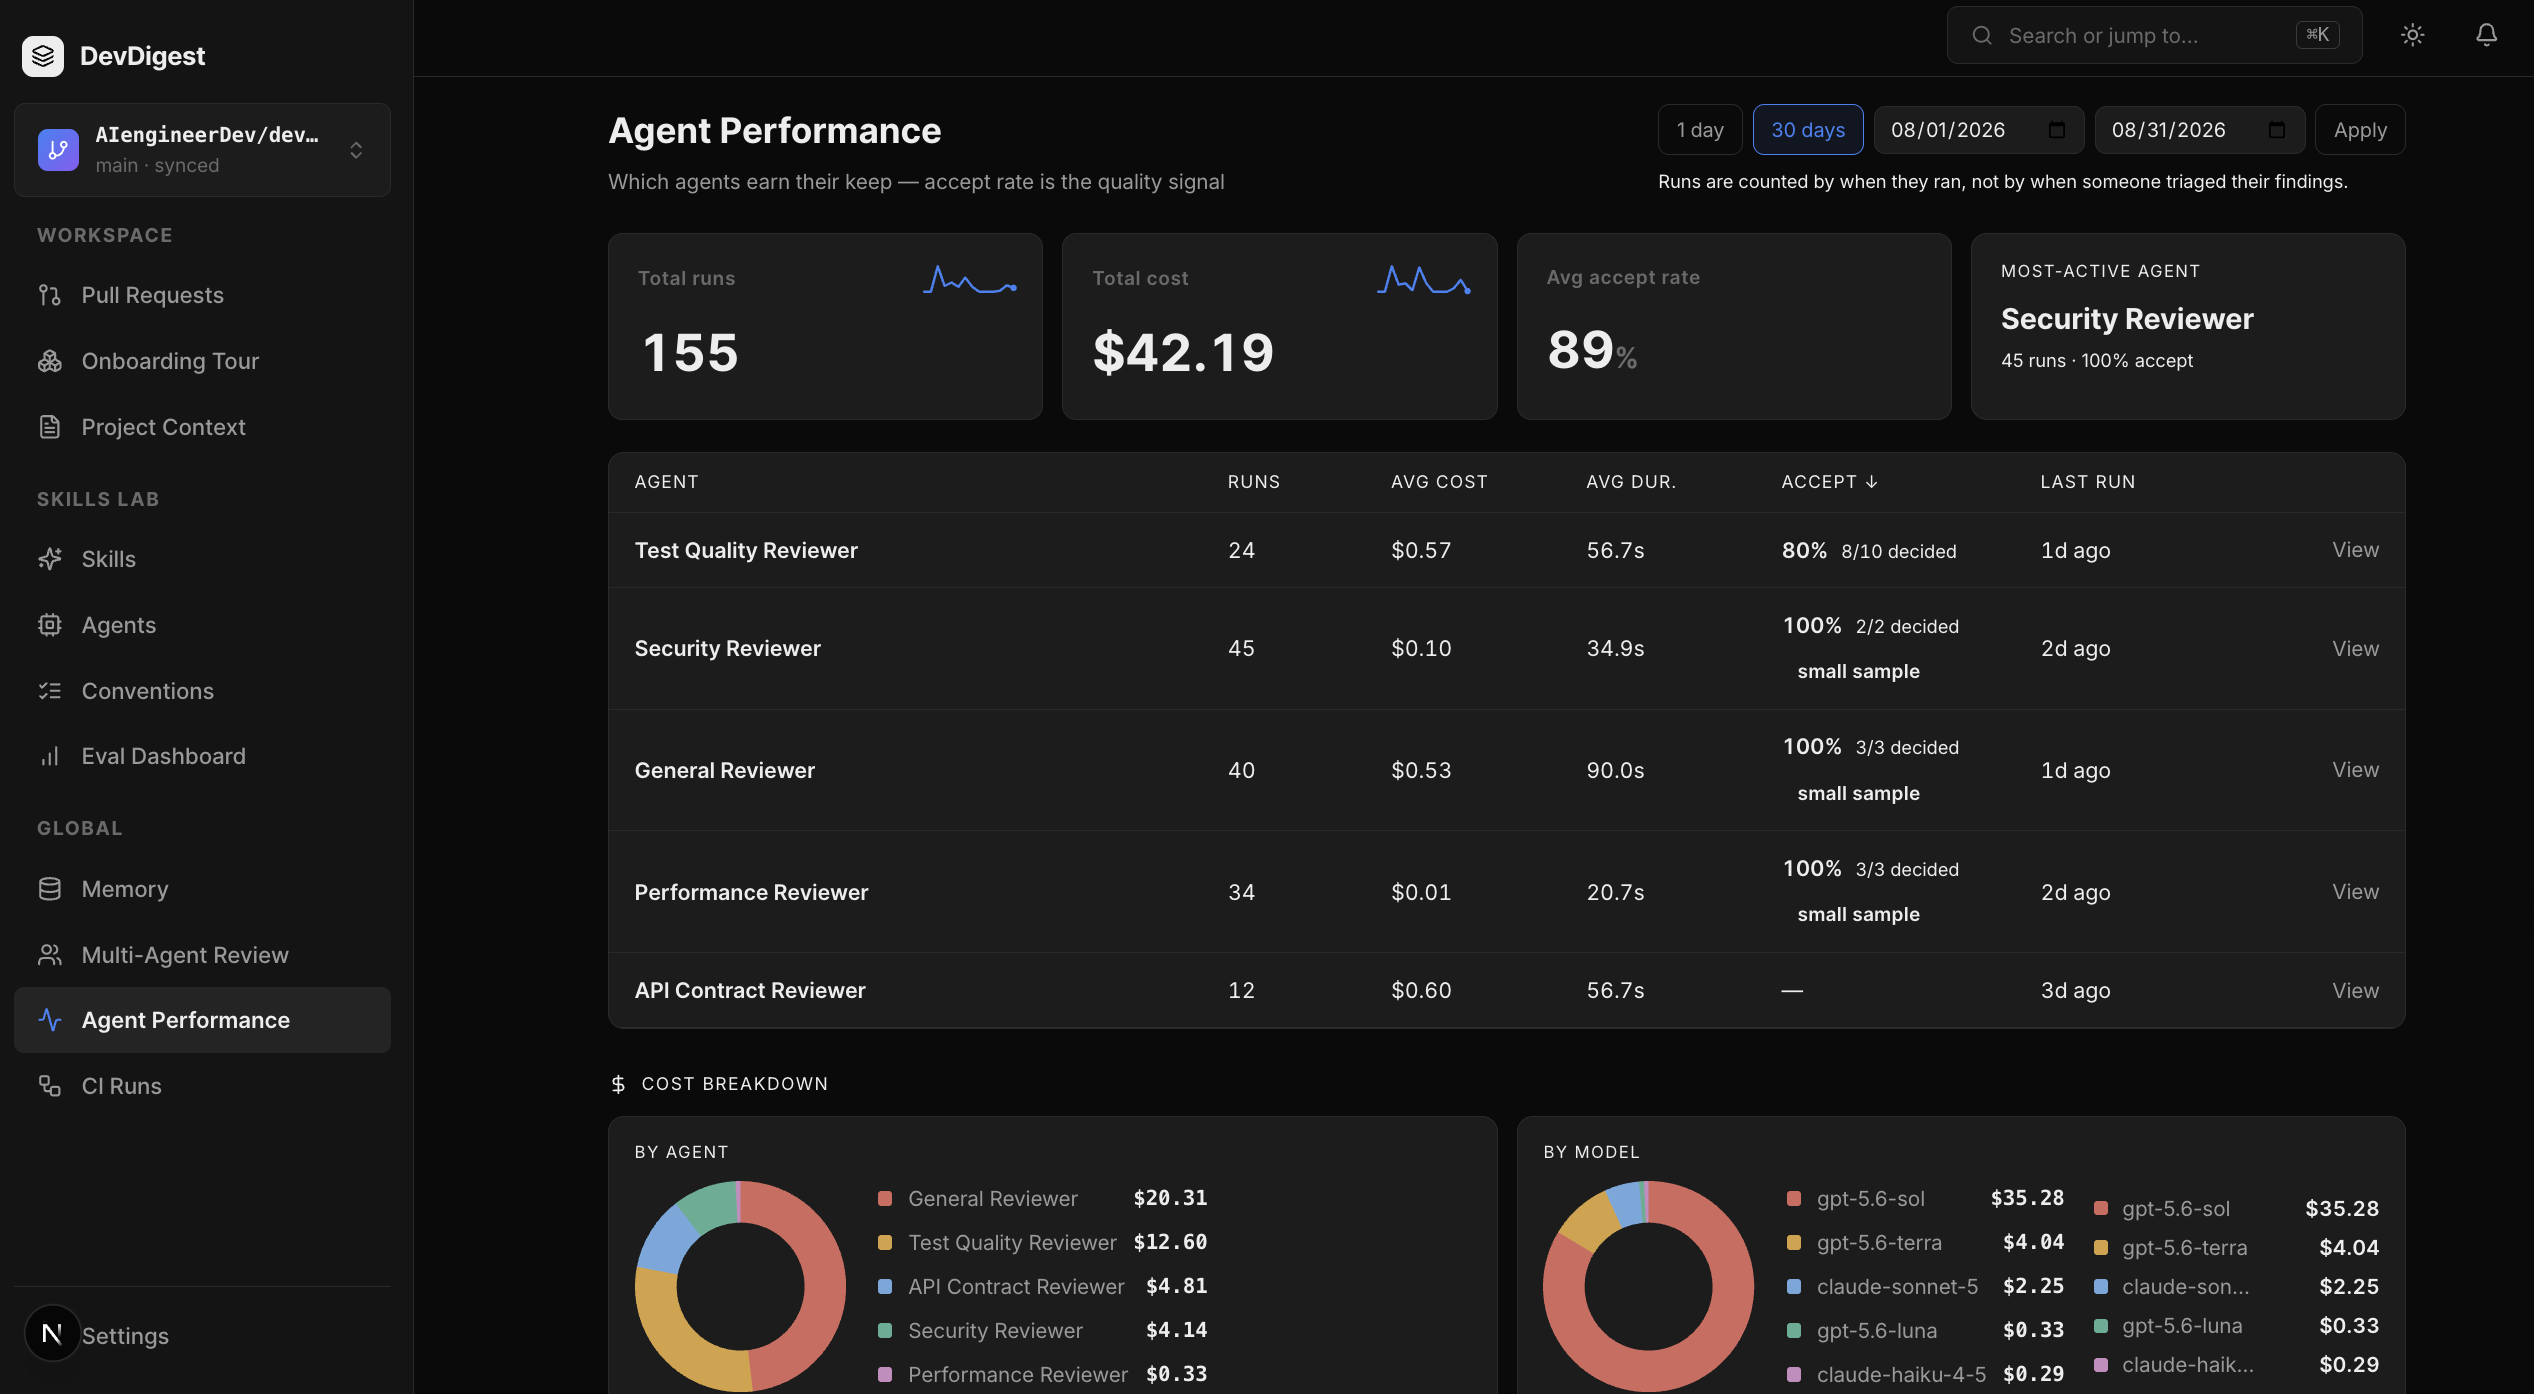
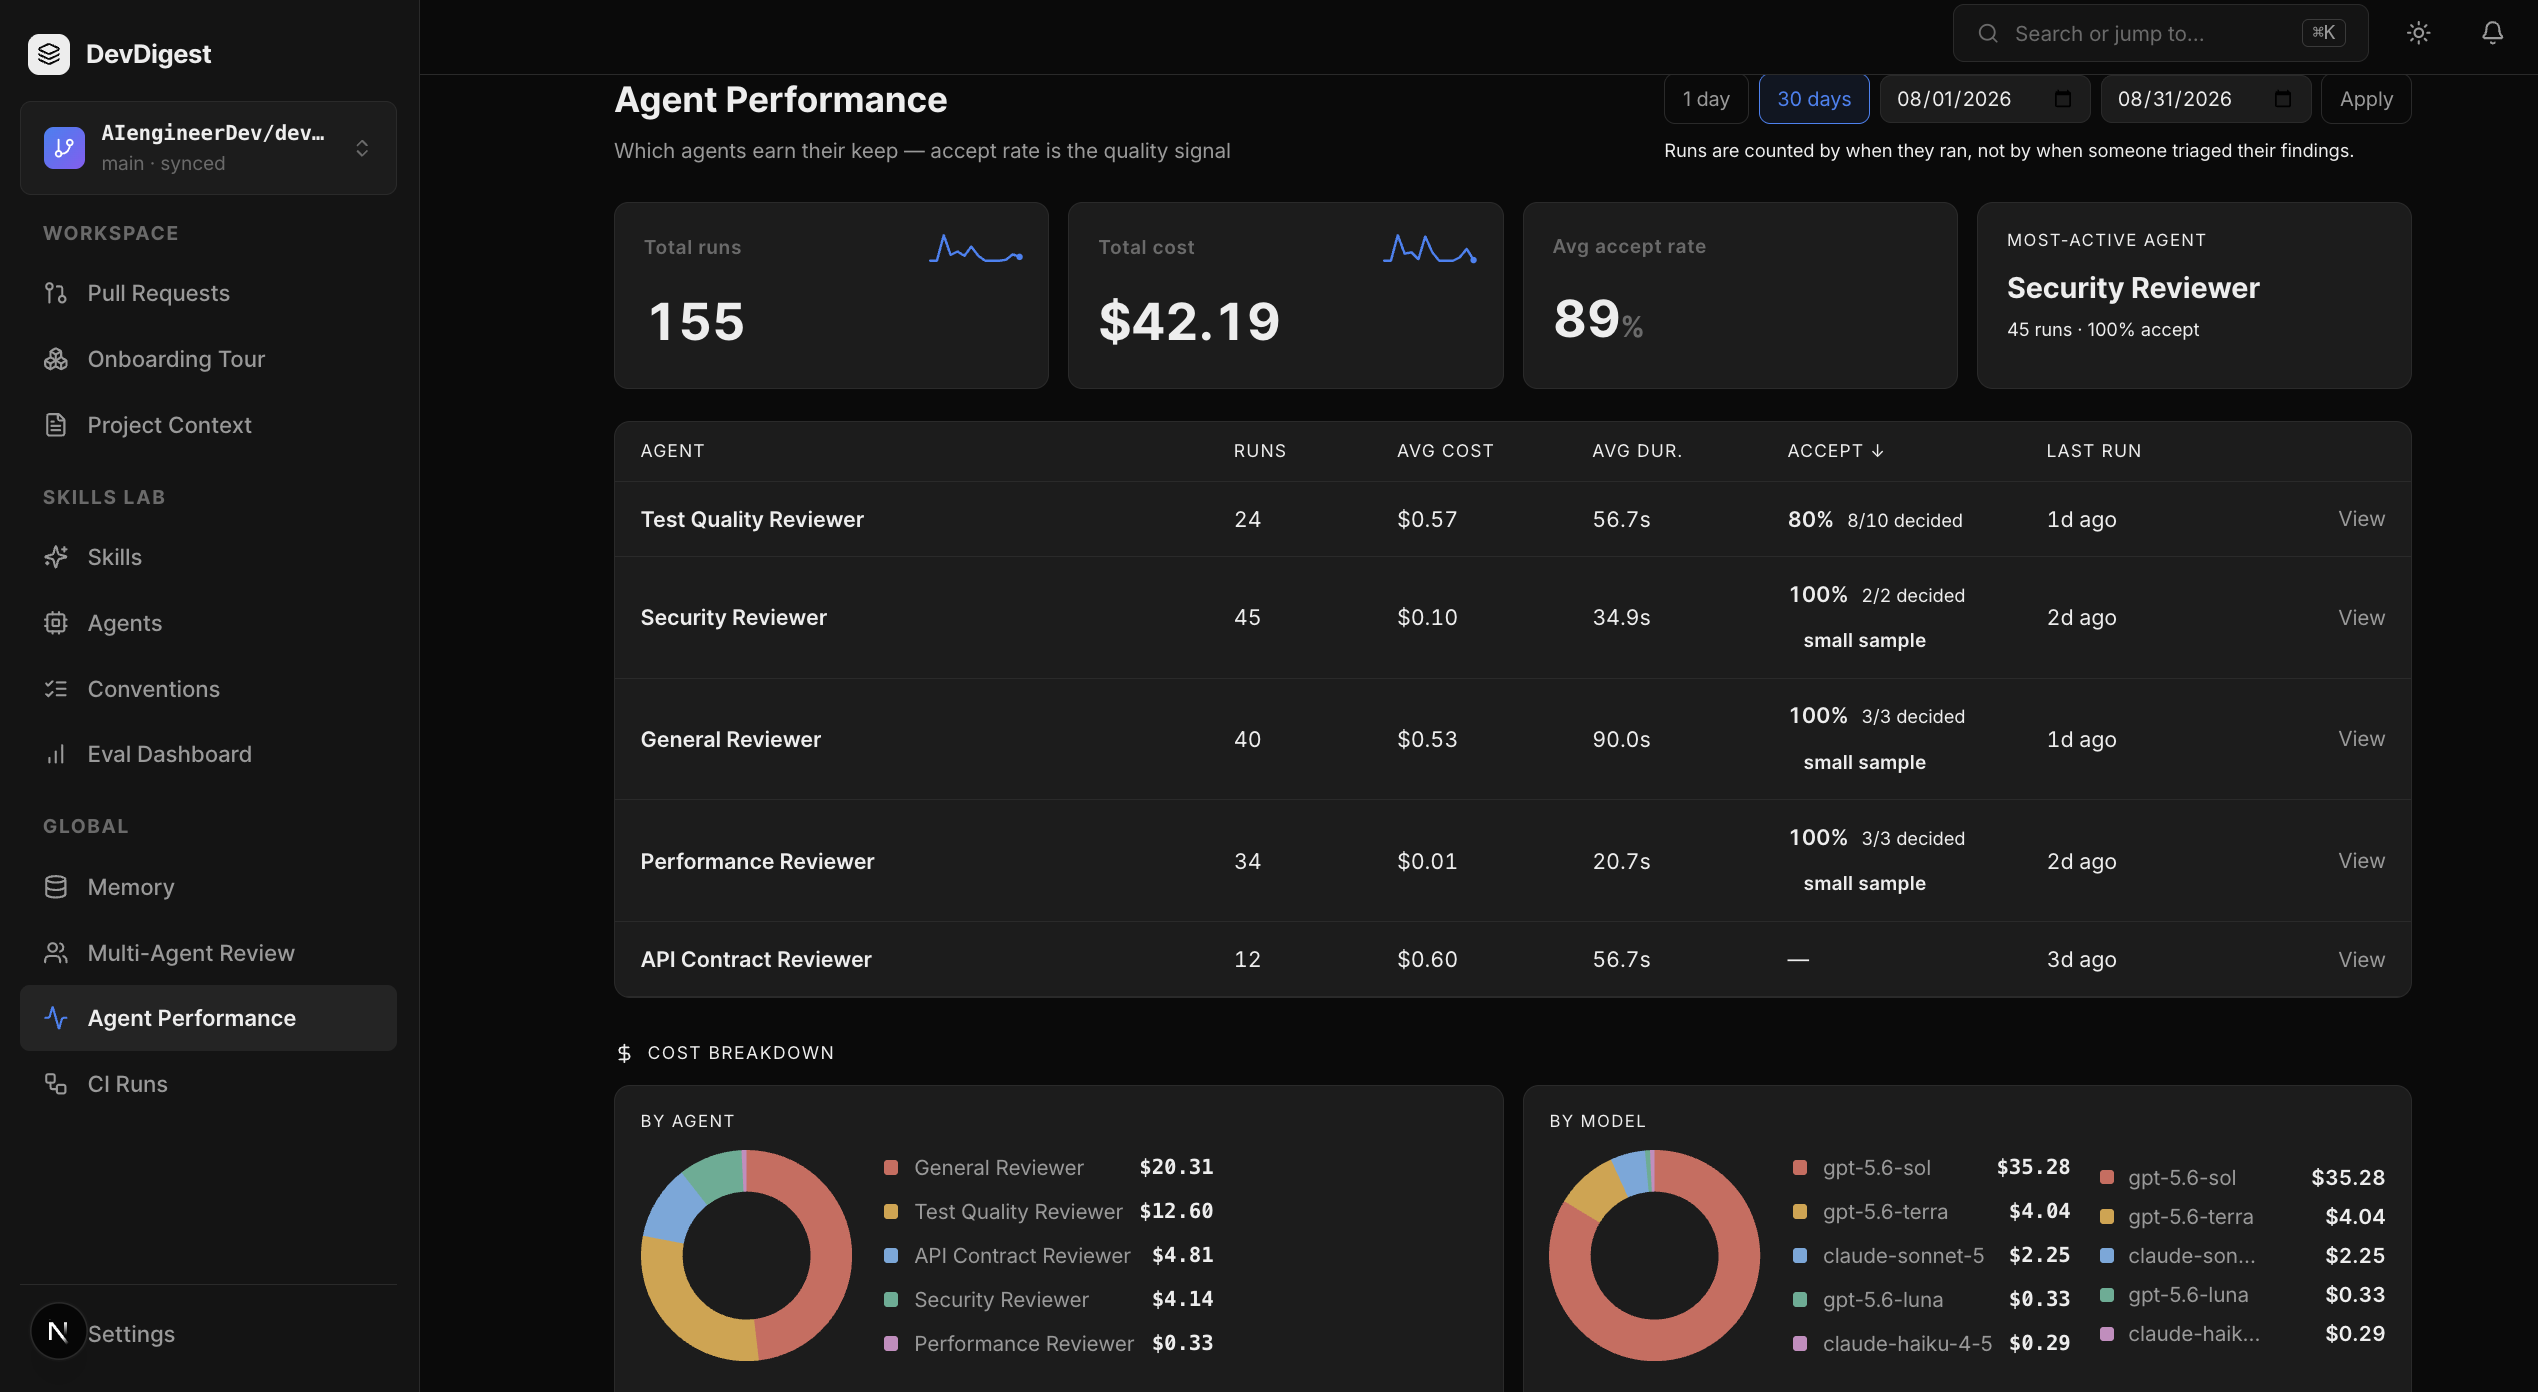
feat(projects): swap in the newer Agent Performance capture, add cost breakdown
Replaces the earlier Agent Performance screenshot with a fresher capture
of the same screen, and adds a close-up of the cost breakdown as its own
gallery figure — the by-agent and by-model split is the part that earns
a caption of its own, and it is unreadable at full-page scale.

diff --git a/src/data/projects.ts b/src/data/projects.ts
@@ -1242,8 +1242,16 @@ const devdigest: Project = {
       alt: "DevDigest agent performance dashboard: total runs, total cost and average accept rate tiles, a per-agent table sorted by accept rate with runs, average cost, average duration and last run, and cost broken down by agent and by model",
       caption:
         "Which agents earn their keep, with accept rate as the quality signal. A 100% accept rate off two decided findings is labelled “small sample” rather than printed as a clean win — the same refusal to over-claim that makes an unevaluated agent read “never run” instead of 0.00. Cost is broken out by agent and by model, so an expensive agent and an expensive model are separable.",
-      width: 2534,
-      height: 1394,
+      width: 2538,
+      height: 1392,
+    },
+    {
+      src: "/projects/devdigest-cost-breakdown.png",
+      alt: "DevDigest cost breakdown: two donut charts with legends, one splitting spend by reviewer agent and one splitting the same spend by model",
+      caption:
+        "The same spend split two ways. An agent is expensive because of how often it runs and how much context it carries; a model is expensive per token. Reporting one number would leave you unable to tell which lever to pull — the General Reviewer is the largest line by agent, and a single model is most of the bill regardless of which agent spent it.",
+      width: 1860,
+      height: 588,
     },
     {
       src: "/projects/devdigest-multi-agent.png",
